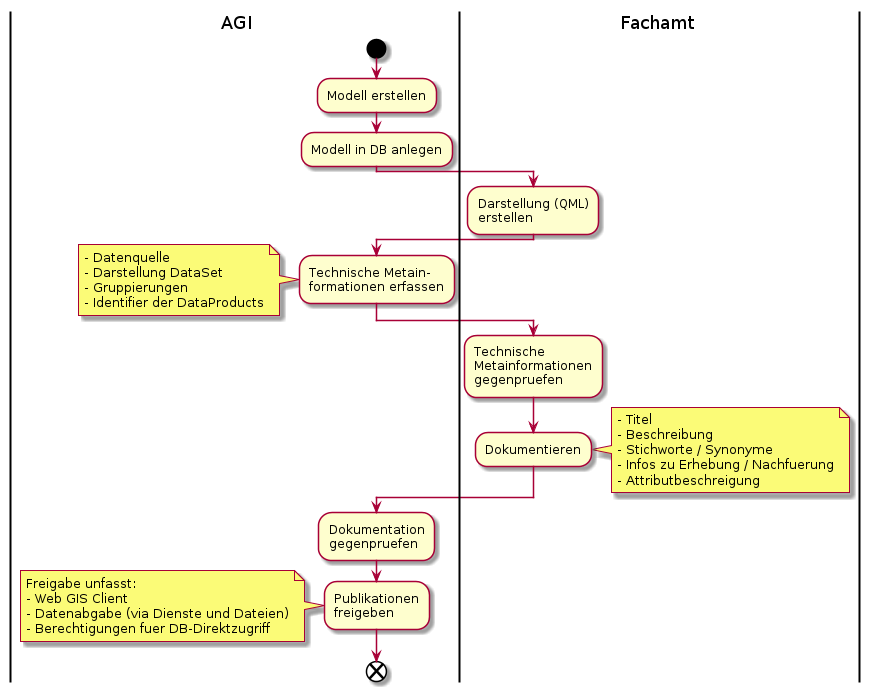
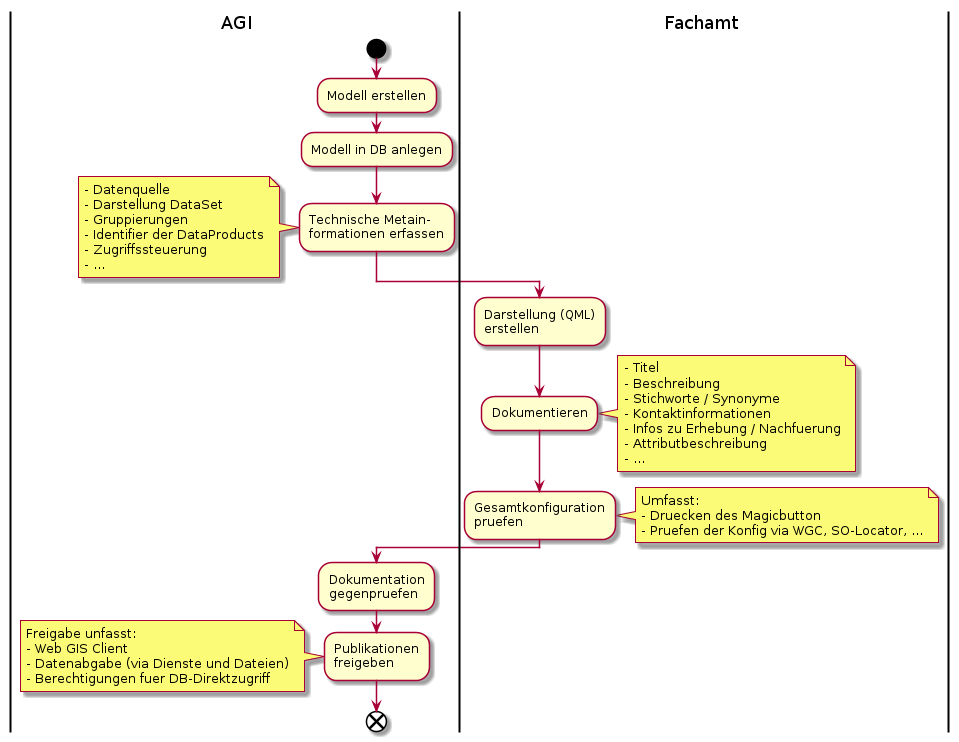
Anpassungen und Todos nach Bspr mit AL

Changed region(s): [[0.0, 0.0303, 0.9931, 1.0], [0.6828, 0.0, 0.8069, 0.0607], [0.2172, 0.0, 0.2793, 0.0607]]

diff --git a/ablaeufe.md b/ablaeufe.md
@@ -16,16 +16,52 @@
 * AGI gibt die Publikation auf allen "Kanälen" frei. Wenn nicht anders definiert werden die Daten sowohl für den 
 Bezug in Rohdatenform (Datenabgabe, Dataservice, WFS) wie auch für den Bezug in Kartenform (WMS, WGC, QGIS Desktop) freigegeben.
 
+## Wo ist der Master der Attributbeschreibung?
+
+**In der Meta-DB.** 
+
+* Die initiale Beschreibung wird aus dem Modell ausgelesen. 
+* Weitere Anpassungen / Verfeinerungen werden direkt in der Meta-DB gemacht.
+* Die Anpassung der Beschreibung löst darum **keine** Modelländerung aus.
+* Bei einer aus anderen Beweggründen ausgelösten Modelländerung wird die Attributbeschreibung im Modell wo nötig aktualisiert.
+
 # Ablauf Datendownload
 
 ![Ablauf Datendownload](puml_output/ablauf_download.png)
 
-* Spezialbestellung liegt vor, falls xtf Transferdaten des Erfassungsmodelles erwünscht sind, 
-oder zugriffsgeschüetzte Daten enthalten sind.
-* In der Downloadübersicht sind auch die Informationen zum "Bezug" via Diensten
+Spezialbestellungen:
+* Zugriffsgeschützte (falls Anzahlmässig wenige)
+* Datenherr will wissen, wozu die Daten verwendet werden 
+
+In der Downloadübersicht sind auch die Informationen zum "Bezug" via Diensten
 enthalten (WMS, GeoAPI, WFS).
 
 ## Alternativen für den Kunden
 
 Aufgrund der "Bestückung" von geocat und oder der Integration in opendata.swiss stehen dem
 Kunden "automatisch" die Such / Katalogfunktionen dieser beiden Applikationen ebenfalls zur Verfügung.
+
+## Anforderungen
+
+|ID|Muss|Stichwort|Beschreibung|
+|---|---|---|---|
+| |Ja|Protokolle|Die Daten müssen via HTTP und FTP bereitgestellt werden|
+| |Ja|Packetierung|Das Publikationmodell ist der kleinste thematische Umfang eines Downloads.<br>Formate, welche dies nicht leisten können, werden als zip ausgeliefert (Bsp. dxf)|
+| |Ja|Formate|Angeboten werden Geopackage, INTERLIS2 für Vektordaten und GeoTif für Rasterdaten.<br>Für die Vermessungsdaten zusätzlich "dxf Geobau".|
+| |Nein|Formate|Angeboten werden zusätzlich dxf und shapefile|
+| |Ja|Ausdehnung|Die Ausdehnung des Angebotes richtet sich einzig nach der Nachführung und/oder der Datenmenge des entsprechenden Themas (Modelles).|
+| |Ja|Benutzer-Oberflächen|Der Kunde bedient sich selbst. Ihm stehen eine kartenzentrische und eine textorientierte Benutzer-Oberfläche zur Verfügung. In der textorientierten Oberfläche sucht er sich "google-like" die Themen zusammen.|
+| |Ja|Datenausschnitt|Es stehen keine kundendefinierten Ausschnitte zur Verfügung. Der Datenumfang der Downloads ist vordefiniert und statisch.|
+
+## Todo
+* Anhand der heutigen Meta-DB und der Bestellungen das Mengengerüst der Spezialbestellungen aufgrund Zugriffsschutz verstehen.
+* Anforderungen verstehen, aus welchem der heute etablierte Freigabeprozess folgt.
+* Raster / Lidardaten verstehen
+* Implementierung für die Zugriffsgeschützten vertiefen. Idee "Modellerweiterung" klemmt wegen den Datendiensten.
+    * Dienste ausklammern?
+    * MetaDb weiss neu, welches Modell welchen Klassenumfang hat. MetaDb weiss schon jetzt, welche Attribute einer Klasse
+    freigeschaltet sind. Damit kann ermittelt werden, ob ein Modell zugriffsgeschützte Informationen umfasst.
+        * Folglich: Zugriffsgeschütztes Modell ist Spezialbestellung? --> Mengengerüst abschätzen! 
+* Ueberzeugen, dass kartenzentrisch ausreicht. Wer will Geodaten bestellen, kann aber nicht mit Karten...?
+
+    
